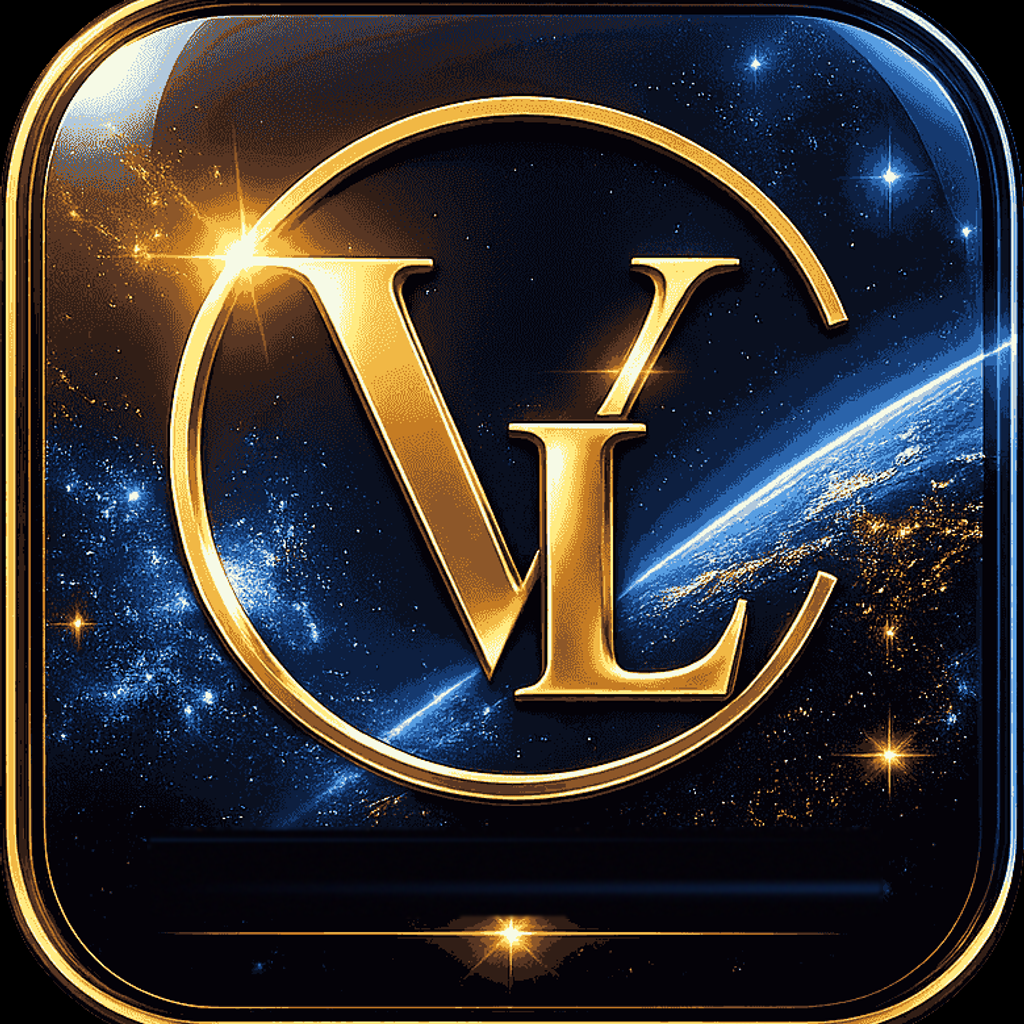
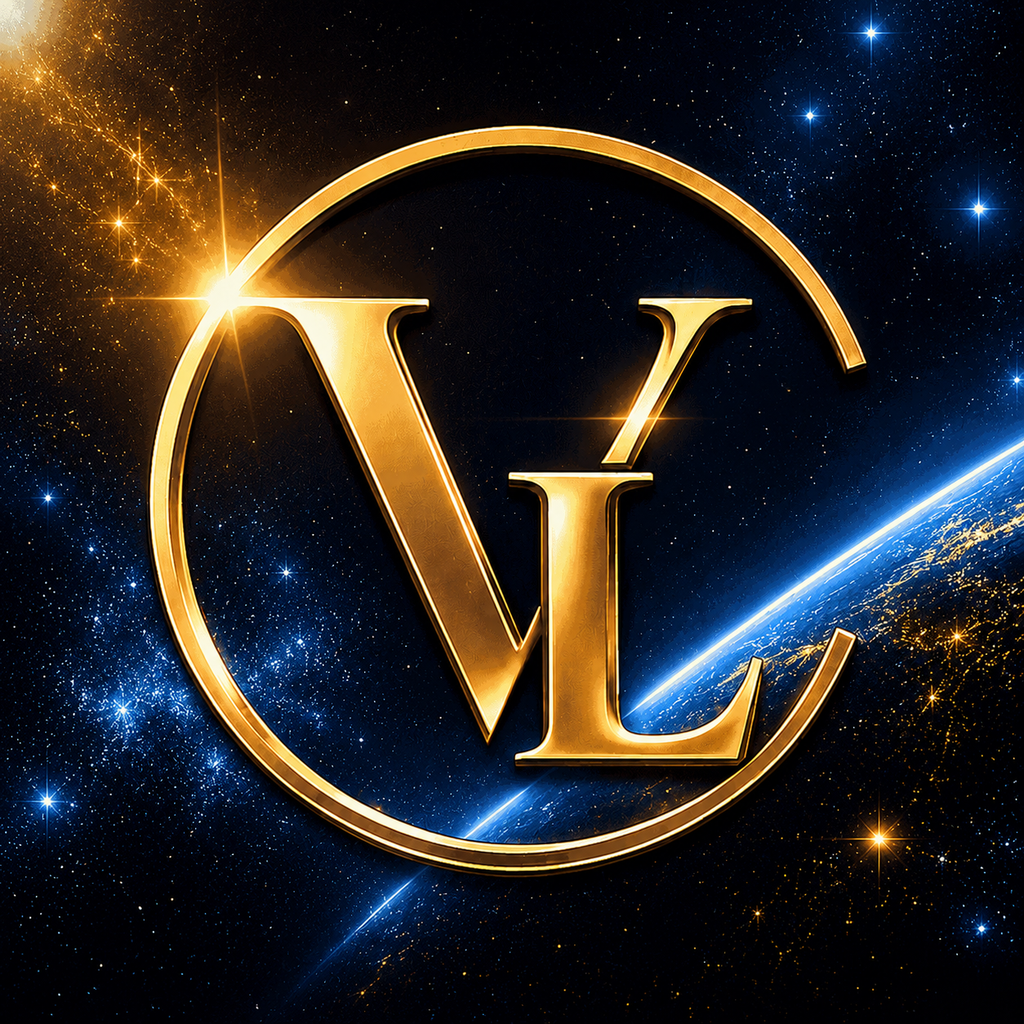
Новая иконка владельца (без надписи) установлена везде + тарелка из скрин/еда
- скрин/лого иконка.png (1254², full-bleed, без текста/прозрачности — по требованиям
  App Store) → icon-1024 + icon-source + Logo-IP.PNG (1024) + Logo_IP.png (160);
  xcassets 512@2x заменён локально; топбар скругляет CSS (border-radius:11px)
- plate_harvard.webp пересжат из перемещённого скрин/еда/Гарвардская тарелка.png
- alt="VIA-L Interpreter" → alt="VIA-L" (VIO+PRO)

diff --git a/interpreter/interpreter-pro.html b/interpreter/interpreter-pro.html
@@ -1321,7 +1321,7 @@ body.flow-mode footer,body.flow-mode .legal-links{display:none;}
 <div class="lang-bar">
   <div style="display:flex;align-items:center;gap:12px;">
     <a href="./index.html" class="lang-logo">
-      <img src="Logo/Logo_IP.png" alt="VIA-L Interpreter" class="lang-logo-img">
+      <img src="Logo/Logo_IP.png" alt="VIA-L" class="lang-logo-img">
     </a>
     <a href="./index.html" class="topbar-home" data-t="topbar_home">← На главную</a>
     <a href="./my-specialist.html" class="topbar-home" data-t="topbar_specialist">🧭 Мой наставник</a>
